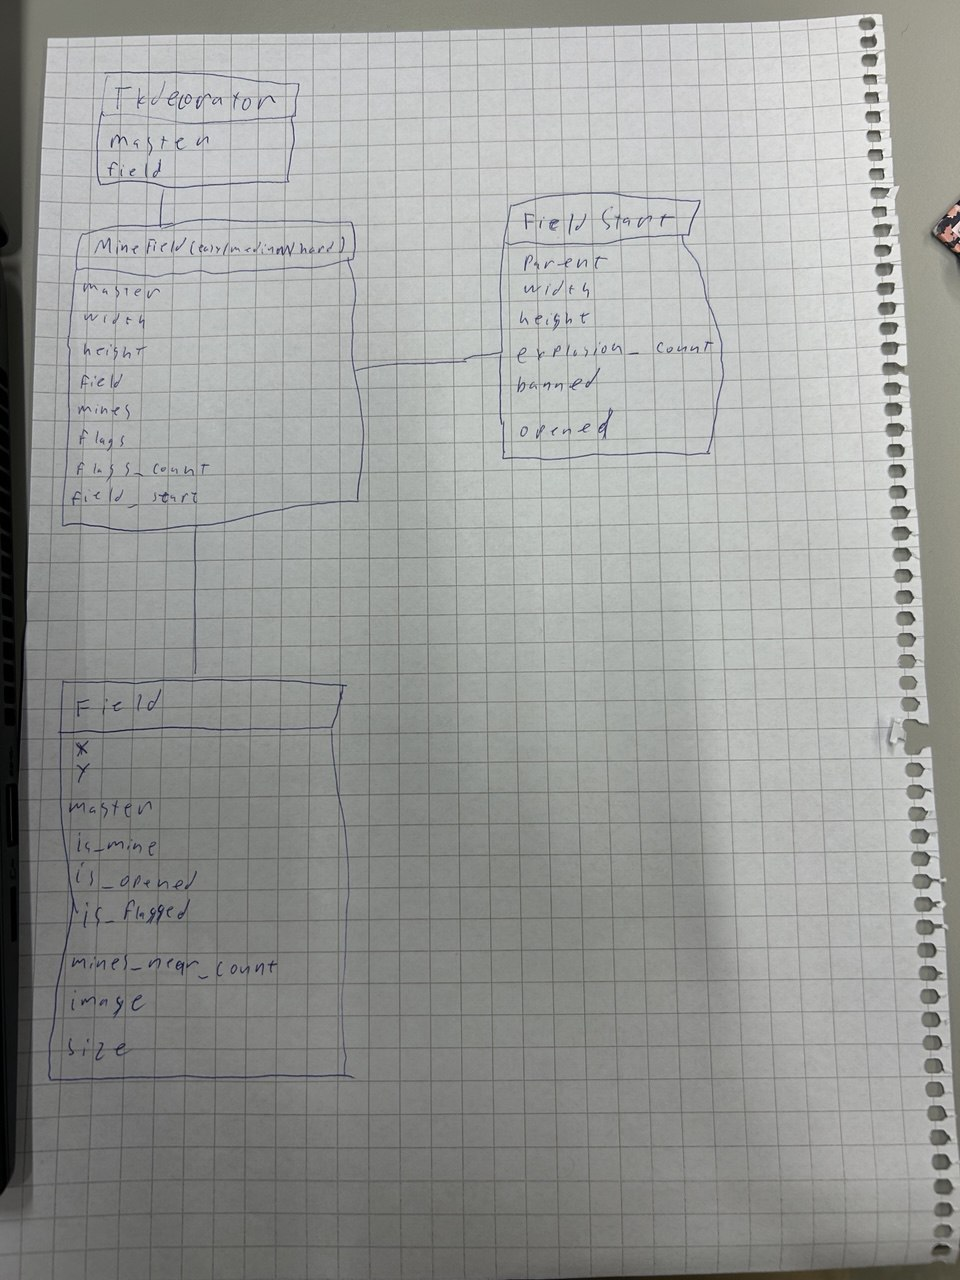
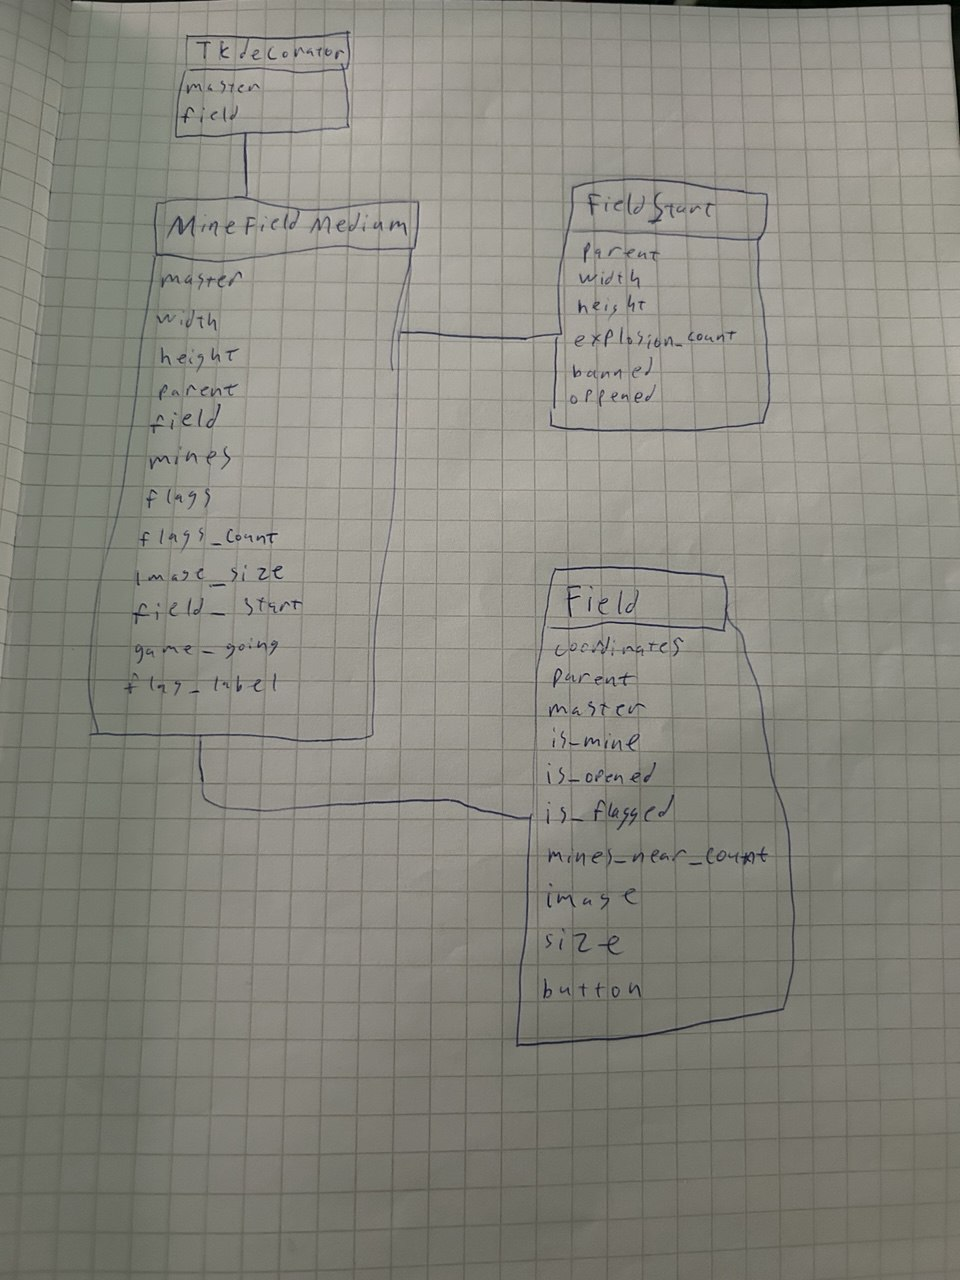
Add documentation

diff --git a/miinaharava/src/enteties/field.py b/miinaharava/src/enteties/field.py
@@ -6,8 +6,7 @@ from PIL import Image, ImageTk
 class Field:
     ' ' 'Class for creating one field and handeling the status of it' ' '
     def __init__(self, master, x, y, size, parent):
-        self.x = x
-        self.y = y
+        self.coordinates = (x, y)
         self.parent = parent
         self.master = master
         self.is_mine = False
@@ -16,15 +15,16 @@ class Field:
         self.mines_near_count = 0
         self.image = ""
         self.size = size
+        self.button = None
 
     def draw_field(self):
         ' ' 'Drawing a field button and setting the size of it' ' '
         # Osittain Generoitu alkaa
 
         self.button = tk.Button(self.master, text="", width=2, height=1,
-                                command=lambda x=self.x, y=self.y: self.on_click())
+                                command=lambda x=self.coordinates[0], y=self.coordinates[1]: self.on_click())
         self.button.bind("<Button-3>", self.on_right_click)
-        self.button.grid(row=self.y, column=self.x,
+        self.button.grid(row=self.coordinates[1], column=self.coordinates[0],
                          padx=1, pady=1, sticky="nsew")
 
         # Osittain Generoitu päättyy
@@ -57,14 +57,14 @@ class Field:
             self.button.image = None
 
             self.is_flagged = False
-            print(f"Button ({self.x}, {self.y}) unflagged.")
+            print(f"Button ({self.coordinates[0]}, {self.coordinates[1]}) unflagged.")
         else:
             if self.parent.flags_count == 0:
                 return
             self.check_sound(False, "src/audio/minesweeper_dig_once.wav")
             self.is_flagged = True
             self.draw_button("src/images/flag.png")
-            print(f"Button ({self.x}, {self.y}) flagged.")
+            #print(f"Button ({self.x}, {self.y}) flagged.")
 
     def on_click(self, many = False):
         ' ' 'Handling the left click event' ' '
@@ -88,9 +88,8 @@ class Field:
 
             names = ["one", "two", "three", "four",
                      "five", "six", "seven", "eight"]
-            
+
             self.button.config(bg="lightgreen")
-            #self.button.bg = "lightgreen"
 
             self.draw_button(f"src/images/{names[self.mines_near_count - 1]}.png")
 

diff --git a/miinaharava/src/tests/field_start_test.py b/miinaharava/src/tests/field_start_test.py
@@ -68,8 +68,6 @@ class TestDecorator(unittest.TestCase):
 
         one = next(iter(self.father_wolf.mines))
 
-        print(self.father_wolf.mines)
-
         print(one)
 
         x = one[1]
@@ -78,3 +76,51 @@ class TestDecorator(unittest.TestCase):
         boolen = self.father_wolf.field[x][y].is_mine
 
         self.assertEqual(boolen, True)
+
+    def test_first_explosion(self):
+
+        self.wolf.set_mines = MagicMock()
+        self.wolf.set_mines_near = MagicMock()
+        self.wolf.open_fields = MagicMock()
+
+        self.wolf.first_explosion()
+
+        self.wolf.set_mines.assert_called_once()
+        self.wolf.set_mines_near.assert_called_once()
+        self.wolf.open_fields.assert_called_once()
+
+    def test_start(self):
+
+        finnis = MagicMock()
+
+        self.grid_frame = tk.Frame(self.master)
+        self.grid_frame.pack(fill=tk.BOTH, expand=True)
+
+        for y in range(self.father_wolf.height):
+            for x in range(self.father_wolf.width):
+                self.father_wolf.field[y][x] = Field(self.grid_frame, x, y, 100, self.father_wolf)
+                self.father_wolf.field[y][x].draw_field()
+
+        self.father_wolf.field[2][2].is_opened = True
+
+        self.wolf.first_explosion = MagicMock()
+
+        self.wolf.start(finnis)
+
+        self.assertTrue((2,2) in self.wolf.banned)
+        self.assertTrue((3,2) in self.wolf.banned)
+        self.assertTrue((1,2) in self.wolf.banned)
+        self.assertTrue((2,3) in self.wolf.banned)
+        self.assertTrue((2,1) in self.wolf.banned)
+        self.assertTrue((3,3) in self.wolf.banned)
+        self.assertTrue((1,3) in self.wolf.banned)
+        self.assertTrue((3,1) in self.wolf.banned)
+        self.assertTrue((1,1) in self.wolf.banned)
+
+        self.wolf.first_explosion.assert_called_once()
+
+        finnis.assert_called_once()
+
+
+
+        

diff --git a/miinaharava/src/enteties/mine_field_medium.py b/miinaharava/src/enteties/mine_field_medium.py
@@ -1,5 +1,3 @@
-# pylint: disable=duplicate-code
-# Tarvitaan muutama samanlainen teidosto mahdollisia integraatioita varten
 import tkinter as tk
 import time
 from enteties.field import Field
@@ -21,6 +19,7 @@ class MineFieldMedium:
         self.image_size = image_size
         self.field_start = FieldStart(self)
         self.game_goig = True
+        self.flag_label = None
 
     def check_flagged(self, x, y):
         ' ' 'Checking if certain field is flagged and update the information in the class' ' '
@@ -69,6 +68,7 @@ class MineFieldMedium:
             time.sleep(1)
             label = tk.Label(self.master, bg="lightgrey",
                              text="You Lost!", font=("Arial", 20))
+            label.place(relx=0.5, rely=0.5, anchor='center')
             time.sleep(2)
             self.parent.choose_difficulty()
 
@@ -98,6 +98,7 @@ class MineFieldMedium:
 
     def draw_flag_count(self, being=False):
         ' ' 'Drawing the flag count on the screen' ' '
+
         if being is False:
             # Genoroitu alkaa
             self.flag_label = tk.Label(self.master, text=f"Flags: {self.flags_count}", font=("Arial", 14))

diff --git a/miinaharava/src/tests/tk_decatir_test.py b/miinaharava/src/tests/tk_decatir_test.py
@@ -2,7 +2,6 @@ import unittest
 import tkinter as tk
 from unittest.mock import patch, MagicMock
 from tk_deciratir import Tkdecorator
-from enteties.mine_field_medium import MineFieldMedium
 
 
 class TestDecorator(unittest.TestCase):
@@ -11,7 +10,6 @@ class TestDecorator(unittest.TestCase):
         self.root = tk.Tk()
         self.wolf = Tkdecorator(self.root)
         self.wolf.clear_window = MagicMock()
-        #self.wolf.master = MagicMock()
 
     def test_decorator(self):
         self.assertEqual(self.wolf.master, self.root)
@@ -25,7 +23,6 @@ class TestDecorator(unittest.TestCase):
         self.wolf.choose_difficulty()
 
         self.wolf.clear_window.assert_called_once()
-        # self.wolf.master.configure.assert_called_with(bg="lightgreen")
         self.wolf.draw_label.assert_any_call("Choose difficulty")
         self.wolf.draw_button.assert_any_call("Easy", 1)
         self.wolf.draw_label.assert_any_call("8x8, 10 mines")

diff --git a/miinaharava/src/tests/field_test.py b/miinaharava/src/tests/field_test.py
@@ -17,8 +17,8 @@ class TestDecorator(unittest.TestCase):
 
     def test_field_values(self):
         self.assertEqual(self.wolf.master, self.master)
-        self.assertEqual(self.wolf.x, 8)
-        self.assertEqual(self.wolf.y, 8)
+        self.assertEqual(self.wolf.coordinates[0], 8)
+        self.assertEqual(self.wolf.coordinates[1], 8)
 
     def test_on_click_not_mine(self):
         self.wolf.on_click()
@@ -69,12 +69,5 @@ class TestDecorator(unittest.TestCase):
         self.wolf.on_right_click("MouseButton-3")
         self.wolf.check_sound.assert_called_once()
         self.assertFalse(self.wolf.is_flagged)
-        # self.wolf.draw_button.assert_called_once()
-
-
-    # def test_on_right_click(self):
-    #     self.wolf.on_right_click(None)
-        # self.assertTrue(self.wolf.is_flagged)
-        # self.assertEqual(self.wolf.button.image, None)
 
     

diff --git a/miinaharava/src/tests/mine_field_medium_test.py b/miinaharava/src/tests/mine_field_medium_test.py
@@ -65,19 +65,5 @@ class TestMineFieldMedium(unittest.TestCase):
 
         self.wolf.field_start.open_fields.assert_called_once()
 
-    # def test_game_status(self):
-    #     self.wolf.check_vicotry = MagicMock()
-    #     self.wolf.chekc_loose = MagicMock()
-    #     self.wolf.check_if_empty_field = MagicMock()
-    #     self.wolf.check_flagged = MagicMock()
-    #     self.wolf.field[0][0].is_opened = True
-
-    #     self.wolf.game_status()
-    #     self.wolf.check_flagged.assert_any_call()
-    #     self.wolf.chekc_loose.assert_any_call()
-    #     self.wolf.check_if_empty_field.assert_any_call()
-    #     self.wolf.check_vicotry.assert_any_call()
-
-
 
     

diff --git a/miinaharava/src/enteties/filed_start.py b/miinaharava/src/enteties/filed_start.py
@@ -54,7 +54,6 @@ class FieldStart:
 
         for i in range(-1, 2):
             for j in range(-1, 2):
-                # print(f"i: {y + i}, j: {x + j}")
                 if (i == 0 and j == 0):
                     continue
                 if (y + i < 0 or y + i >= self.height
@@ -104,6 +103,6 @@ class FieldStart:
                     if finnish:
                         finnish()
 
-                    return True
+                    return
 
         self.parent.master.after(100, lambda: self.start(finnish))

diff --git a/miinaharava/src/tk_deciratir.py b/miinaharava/src/tk_deciratir.py
@@ -78,7 +78,8 @@ class Tkdecorator():
         label2.pack()
 
         start = tk.Button(self.master, text="Start the Game!",
-                          command=lambda: self.choose_difficulty())
+                          command=lambda: self.choose_difficulty()) # pylint: disable=unnecessary-lambda
+        # Koodi ei toimi ilman lambdaa
         start.pack(pady=5)
 
         self.master.mainloop()
